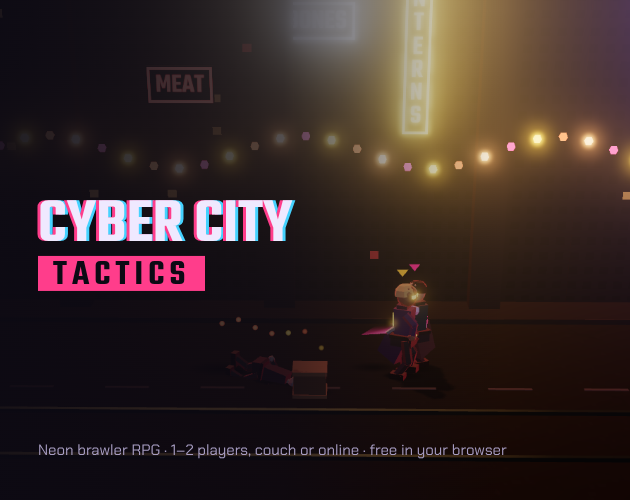
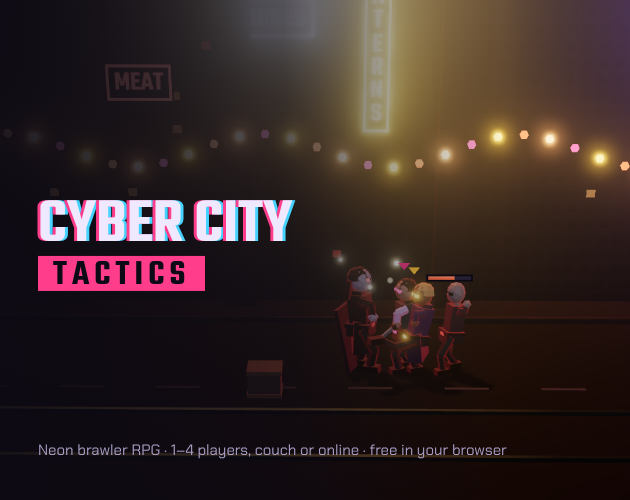
Launch on itch.io: donate links, four-player copy, fresh cover and social cards
- README: itch.io and Support badges, play/support/project-page links.
- .github/FUNDING.yml: GitHub's Sponsor button points at the itch donate page.
- Settings footer: Privacy now shows in the single-file build too (absolute
  link), plus a "Support the game" link.
- Title screen, meta tags, brand docs and the capture tool say one to four
  players; cover and social cards regenerated with "1–4 players".

Claude-Session: https://claude.ai/code/session_01Y48r5UoeMN5qUBJCKsM3hL

diff --git a/dist/cyber-city-tactics.html b/dist/cyber-city-tactics.html
@@ -3,11 +3,11 @@
 <head>
 <meta charset="utf-8">
 <meta name="viewport" content="width=device-width,initial-scale=1,maximum-scale=1,user-scalable=no,viewport-fit=cover">
-<meta http-equiv="Content-Security-Policy" content="default-src 'self'; script-src 'sha256-zYSiMwBd0hRYivYHOG/sCLJKpqCl4qIfS6S3hoSxue8='; style-src 'self' 'unsafe-inline'; img-src 'self' data: blob:; font-src 'self' data:; media-src 'self' blob:; connect-src 'self' https://cct-lobby.jca2016satx.workers.dev http://localhost:* http://127.0.0.1:*; worker-src 'self'; manifest-src 'self'; object-src 'none'; base-uri 'self'; form-action 'none'">
+<meta http-equiv="Content-Security-Policy" content="default-src 'self'; script-src 'sha256-pc1rbCnKEPQiY0EPz1YuVVLgSk9IqANskq//ZKOPe5Q='; style-src 'self' 'unsafe-inline'; img-src 'self' data: blob:; font-src 'self' data:; media-src 'self' blob:; connect-src 'self' https://cct-lobby.jca2016satx.workers.dev http://localhost:* http://127.0.0.1:*; worker-src 'self'; manifest-src 'self'; object-src 'none'; base-uri 'self'; form-action 'none'">
 <title>Cyber City Tactics</title>
-<meta name="description" content="A vector brawler RPG for one or two players, couch or online: a six-district campaign, an open-world Sprawl, Arena waves, driving, drone and flight jobs, skill trees, legendaries and secrets. Plays offline.">
+<meta name="description" content="A vector brawler RPG for one to four players, couch or online: a six-district campaign, an open-world Sprawl, Arena waves, driving, drone and flight jobs, skill trees, legendaries and secrets. Plays offline.">
 <meta property="og:title" content="Cyber City Tactics">
-<meta property="og:description" content="A neon brawler RPG for one or two players, couch or online. Six districts, an open-world Sprawl, and every job a choice. Free in your browser; plays offline.">
+<meta property="og:description" content="A neon brawler RPG for one to four players, couch or online. Six districts, an open-world Sprawl, and every job a choice. Free in your browser; plays offline.">
 <meta property="og:type" content="website">
 <meta property="og:url" content="https://cptnope.github.io/Cyber-City-Tactics/">
 <meta property="og:site_name" content="Cyber City Tactics">
@@ -23,7 +23,7 @@
 <meta property="og:video:height" content="720">
 <meta name="twitter:card" content="summary_large_image">
 <meta name="twitter:title" content="Cyber City Tactics">
-<meta name="twitter:description" content="A neon brawler RPG for one or two players, couch or online. Free in your browser; plays offline.">
+<meta name="twitter:description" content="A neon brawler RPG for one to four players, couch or online. Free in your browser; plays offline.">
 <meta name="twitter:image" content="https://cptnope.github.io/Cyber-City-Tactics/docs/store/social-1200x630.png?v=2">
 <meta name="twitter:image:alt" content="Cyber City Tactics: two runners brawling through a neon night market">
 <link rel="canonical" href="https://cptnope.github.io/Cyber-City-Tactics/">
@@ -1348,7 +1348,7 @@ const BUNDLED = true;
 /* ===== src/js/version.js ===== */
 /* Cyber City Tactics · src/js/version.js
  * Written by tools/build.mjs. Do not edit by hand. */
-const APP_VERSION = '2.0.0+1d7766d';
+const APP_VERSION = '2.0.0+c482e25';
 
 /* ===== src/js/core/canvas.js ===== */
 /* Cyber City Tactics · src/js/core/canvas.js
@@ -34490,8 +34490,8 @@ function renderOv() {
       boot = G.booted ? '' : ' boot'; // the sign powers on once per session, never on later visits
     G.booted = true;
     if (G.mode === 'title') G.pendDiff = sv && DIFF[sv.diff] ? sv.diff : 1;
-    h = `<div class="card"><p class="eyebrow">Seattle sprawl, 2079 · brawler RPG for one or two</p><h1 class="wordmark${boot}" aria-label="Cyber City Tactics"><span class="wm-city">Cyber City</span><span class="wm-bar">Tactics</span></h1>
-    <p>Two shadowrunners, a fixer with a grudge and six districts between you and Director Voss, from the gang turf to the Kagemori host itself. Level up with karma, loot gear off the street, grab and throw whatever isn't bolted down, and spend it all in the Den.</p>
+    h = `<div class="card"><p class="eyebrow">Seattle sprawl, 2079 · brawler RPG for one to four</p><h1 class="wordmark${boot}" aria-label="Cyber City Tactics"><span class="wm-city">Cyber City</span><span class="wm-bar">Tactics</span></h1>
+    <p>Up to four shadowrunners, a fixer with a grudge and six districts between you and Director Voss, from the gang turf to the Kagemori host itself. Level up with karma, loot gear off the street, grab and throw whatever isn't bolted down, and spend it all in the Den.</p>
     <div class="row"><button class="btn" data-a="pick">New run</button><button class="btn ghost" data-a="arenapick">Arena</button><button class="btn ghost" data-a="gauntpick">Gauntlet</button><button class="btn ghost" data-a="jobs">Jobs</button><button class="btn ghost" data-a="online">Online co-op</button><button class="btn ghost" data-a="worldpick">The Sprawl</button><button class="btn ghost" data-a="codex">Codex · ${esc(RANKS[rankOf(legLP())][1])}</button><button class="btn ghost" data-a="trainpick">Training</button>${sv ? `<button class="btn ghost" data-a="cont">Continue · ${(DIFF[sv.diff] || DIFF[1]).name}${sv.ng ? ' NG+' + sv.ng : ''}, ${sv.phase === 'den' ? 'the Den after district ' + (sv.stage + 1) : 'district ' + (sv.stage + 1)}</button>` : ''}<button class="btn ghost" data-a="settings">Settings</button>${PWA.deferred && !PWA.installed ? '<button class="btn ghost" data-a="install">Install app</button>' : ''}</div>${helpHtml()}</div>`;
   }
   if (m === 'pick') {
@@ -36187,7 +36187,7 @@ function pwaSettingsRows(row) {
     ) +
     syncSettingsRows(row) +
     imp +
-    `<p class="ds" style="margin-top:8px">Version ${esc(typeof APP_VERSION !== 'undefined' ? APP_VERSION : 'dev')}${PWA.waiting ? ' · update ready' : ''}${typeof BUNDLED === 'undefined' ? ' · <a href="privacy.html" target="_blank" rel="noopener">Privacy</a>' : ''}</p>`
+    `<p class="ds" style="margin-top:8px">Version ${esc(typeof APP_VERSION !== 'undefined' ? APP_VERSION : 'dev')}${PWA.waiting ? ' · update ready' : ''} · <a href="${typeof BUNDLED === 'undefined' ? 'privacy.html' : 'https://cptnope.github.io/Cyber-City-Tactics/privacy.html'}" target="_blank" rel="noopener">Privacy</a> · <a href="https://cptnope.itch.io/cyber-city-tactics/donate" target="_blank" rel="noopener">Support the game</a></p>`
   );
 }
 

diff --git a/index.html b/index.html
@@ -5,9 +5,9 @@
 <meta name="viewport" content="width=device-width,initial-scale=1,maximum-scale=1,user-scalable=no,viewport-fit=cover">
 <meta http-equiv="Content-Security-Policy" content="default-src 'self'; script-src 'self'; style-src 'self' 'unsafe-inline'; img-src 'self' data: blob:; font-src 'self' data:; media-src 'self' blob:; connect-src 'self' https://cct-lobby.jca2016satx.workers.dev http://localhost:* http://127.0.0.1:*; worker-src 'self'; manifest-src 'self'; object-src 'none'; base-uri 'self'; form-action 'none'">
 <title>Cyber City Tactics</title>
-<meta name="description" content="A vector brawler RPG for one or two players, couch or online: a six-district campaign, an open-world Sprawl, Arena waves, driving, drone and flight jobs, skill trees, legendaries and secrets. Plays offline.">
+<meta name="description" content="A vector brawler RPG for one to four players, couch or online: a six-district campaign, an open-world Sprawl, Arena waves, driving, drone and flight jobs, skill trees, legendaries and secrets. Plays offline.">
 <meta property="og:title" content="Cyber City Tactics">
-<meta property="og:description" content="A neon brawler RPG for one or two players, couch or online. Six districts, an open-world Sprawl, and every job a choice. Free in your browser; plays offline.">
+<meta property="og:description" content="A neon brawler RPG for one to four players, couch or online. Six districts, an open-world Sprawl, and every job a choice. Free in your browser; plays offline.">
 <meta property="og:type" content="website">
 <meta property="og:url" content="https://cptnope.github.io/Cyber-City-Tactics/">
 <meta property="og:site_name" content="Cyber City Tactics">
@@ -23,7 +23,7 @@
 <meta property="og:video:height" content="720">
 <meta name="twitter:card" content="summary_large_image">
 <meta name="twitter:title" content="Cyber City Tactics">
-<meta name="twitter:description" content="A neon brawler RPG for one or two players, couch or online. Free in your browser; plays offline.">
+<meta name="twitter:description" content="A neon brawler RPG for one to four players, couch or online. Free in your browser; plays offline.">
 <meta name="twitter:image" content="https://cptnope.github.io/Cyber-City-Tactics/docs/store/social-1200x630.png?v=2">
 <meta name="twitter:image:alt" content="Cyber City Tactics: two runners brawling through a neon night market">
 <link rel="canonical" href="https://cptnope.github.io/Cyber-City-Tactics/">

diff --git a/src/js/ui/overlay.js b/src/js/ui/overlay.js
@@ -26,8 +26,8 @@ function renderOv() {
       boot = G.booted ? '' : ' boot'; // the sign powers on once per session, never on later visits
     G.booted = true;
     if (G.mode === 'title') G.pendDiff = sv && DIFF[sv.diff] ? sv.diff : 1;
-    h = `<div class="card"><p class="eyebrow">Seattle sprawl, 2079 · brawler RPG for one or two</p><h1 class="wordmark${boot}" aria-label="Cyber City Tactics"><span class="wm-city">Cyber City</span><span class="wm-bar">Tactics</span></h1>
-    <p>Two shadowrunners, a fixer with a grudge and six districts between you and Director Voss, from the gang turf to the Kagemori host itself. Level up with karma, loot gear off the street, grab and throw whatever isn't bolted down, and spend it all in the Den.</p>
+    h = `<div class="card"><p class="eyebrow">Seattle sprawl, 2079 · brawler RPG for one to four</p><h1 class="wordmark${boot}" aria-label="Cyber City Tactics"><span class="wm-city">Cyber City</span><span class="wm-bar">Tactics</span></h1>
+    <p>Up to four shadowrunners, a fixer with a grudge and six districts between you and Director Voss, from the gang turf to the Kagemori host itself. Level up with karma, loot gear off the street, grab and throw whatever isn't bolted down, and spend it all in the Den.</p>
     <div class="row"><button class="btn" data-a="pick">New run</button><button class="btn ghost" data-a="arenapick">Arena</button><button class="btn ghost" data-a="gauntpick">Gauntlet</button><button class="btn ghost" data-a="jobs">Jobs</button><button class="btn ghost" data-a="online">Online co-op</button><button class="btn ghost" data-a="worldpick">The Sprawl</button><button class="btn ghost" data-a="codex">Codex · ${esc(RANKS[rankOf(legLP())][1])}</button><button class="btn ghost" data-a="trainpick">Training</button>${sv ? `<button class="btn ghost" data-a="cont">Continue · ${(DIFF[sv.diff] || DIFF[1]).name}${sv.ng ? ' NG+' + sv.ng : ''}, ${sv.phase === 'den' ? 'the Den after district ' + (sv.stage + 1) : 'district ' + (sv.stage + 1)}</button>` : ''}<button class="btn ghost" data-a="settings">Settings</button>${PWA.deferred && !PWA.installed ? '<button class="btn ghost" data-a="install">Install app</button>' : ''}</div>${helpHtml()}</div>`;
   }
   if (m === 'pick') {

diff --git a/docs/design/panels/Main.dc.html b/docs/design/panels/Main.dc.html
@@ -19,7 +19,7 @@ a{color:#45d2ff}a:hover{color:#efe9ff}
 <div style="width: 1280px; height: 720px; position: relative; overflow: hidden; background: #0c0a14; font-family: 'Chakra Petch', ui-sans-serif, system-ui, sans-serif; color: #efe9ff;">
   <img src="shots/fight.png" alt="Two runners fighting a ganger, a berserk orc, corp security and a drone in the Neon Market" style="position: absolute; left: 0; top: 0; width: 1280px; height: 720px; object-fit: cover;">
   <div style="position: absolute; left: 0; top: 0; bottom: 0; width: 600px; background: rgba(12, 10, 20, 0.9); border-right: 2px solid #ff3d8b; box-sizing: border-box; padding: 72px 56px; display: flex; flex-direction: column; justify-content: center; gap: 22px;">
-    <p style="margin: 0; font-size: 12px; letter-spacing: 0.18em; text-transform: uppercase; color: #a79dc2;">Seattle sprawl, 2079 · brawler RPG for one or two</p>
+    <p style="margin: 0; font-size: 12px; letter-spacing: 0.18em; text-transform: uppercase; color: #a79dc2;">Seattle sprawl, 2079 · brawler RPG for one to four</p>
     <div style="display: flex; flex-direction: column; align-items: flex-start; gap: 6px; font-family: 'Teko', Impact, 'Arial Narrow', sans-serif; font-weight: 600; text-transform: uppercase;">
       <span style="font-size: 112px; line-height: 0.82; letter-spacing: 0.01em; text-shadow: -3px 0 #ff3d8b, 3px 0 #45d2ff;">Cyber City</span>
       <span style="font-size: 62px; line-height: 1; letter-spacing: 0.14em; background: #ff3d8b; color: #0c0a14; padding: 6px 16px 0;">Tactics</span>

diff --git a/src/js/pwa.js b/src/js/pwa.js
@@ -95,7 +95,7 @@ function pwaSettingsRows(row) {
     ) +
     syncSettingsRows(row) +
     imp +
-    `<p class="ds" style="margin-top:8px">Version ${esc(typeof APP_VERSION !== 'undefined' ? APP_VERSION : 'dev')}${PWA.waiting ? ' · update ready' : ''}${typeof BUNDLED === 'undefined' ? ' · <a href="privacy.html" target="_blank" rel="noopener">Privacy</a>' : ''}</p>`
+    `<p class="ds" style="margin-top:8px">Version ${esc(typeof APP_VERSION !== 'undefined' ? APP_VERSION : 'dev')}${PWA.waiting ? ' · update ready' : ''} · <a href="${typeof BUNDLED === 'undefined' ? 'privacy.html' : 'https://cptnope.github.io/Cyber-City-Tactics/privacy.html'}" target="_blank" rel="noopener">Privacy</a> · <a href="https://cptnope.itch.io/cyber-city-tactics/donate" target="_blank" rel="noopener">Support the game</a></p>`
   );
 }
 

diff --git a/docs/design/system/components/Cover/preview.html b/docs/design/system/components/Cover/preview.html
@@ -53,7 +53,7 @@
 </div>
 <div class="words">
 <h1 class="name">Cyber City<br>Tactics</h1>
-<p class="tag">A neon brawler RPG for one or two. Choose who you hurt.</p>
+<p class="tag">A neon brawler RPG for one to four. Choose who you hurt.</p>
 </div>
 </div>
 </body>

diff --git a/src/js/version.js b/src/js/version.js
@@ -1,4 +1,4 @@
 /* Cyber City Tactics · src/js/version.js
  * Written by tools/build.mjs. Do not edit by hand. */
 'use strict';
-const APP_VERSION = '2.0.0+1d7766d';
+const APP_VERSION = '2.0.0+c482e25';

diff --git a/sw.js b/sw.js
@@ -10,7 +10,7 @@
  */
 
 /* BUILD:MANIFEST */
-const VERSION = '1d7766dbf6c3';
+const VERSION = 'c482e25123b0';
 const PRECACHE = [
   './',
   'index.html',

diff --git a/README.md b/README.md
@@ -7,6 +7,8 @@
 <p align="center">
   <a href="https://cptnope.github.io/Cyber-City-Tactics/"><img alt="Play now in your browser" src="https://img.shields.io/badge/%E2%96%B6%20PLAY%20NOW-in%20your%20browser-ff3d8b?style=for-the-badge&labelColor=0c0a14"></a>
   <a href="https://cptnope.github.io/Cyber-City-Tactics/docs/store/trailer.mp4"><img alt="Watch the trailer" src="https://img.shields.io/badge/%E2%96%B6%20TRAILER-22%20seconds-45d2ff?style=for-the-badge&labelColor=0c0a14"></a>
+  <a href="https://cptnope.itch.io/cyber-city-tactics"><img alt="Play on itch.io" src="https://img.shields.io/badge/itch.io-play%20free-fa5c5c?style=for-the-badge&labelColor=0c0a14&logo=itchdotio&logoColor=white"></a>
+  <a href="https://cptnope.itch.io/cyber-city-tactics/donate"><img alt="Support the game" src="https://img.shields.io/badge/%E2%99%A5%20SUPPORT-donate%20on%20itch-ffc63d?style=for-the-badge&labelColor=0c0a14"></a>
 </p>
 <p align="center">
   <a href="https://github.com/CptNope/Cyber-City-Tactics/actions/workflows/ci.yml"><img alt="CI" src="https://github.com/CptNope/Cyber-City-Tactics/actions/workflows/ci.yml/badge.svg"></a>
@@ -19,11 +21,13 @@
 
 Seattle, 2079. Magic came back, dragons came with it, and the corps bought the sky.
 
-**Cyber City Tactics** is a vector-drawn, River City Ransom–style brawler RPG set in a cyberpunk sprawl where magic is real. Street samurai, combat mages, gunslingers, deckers, shamans and riggers fight gangs, corps, spirits and ICE across six districts, an open-world street and an endless Arena. You and a friend punch, kick, shoot, cast, grab and throw your way from the gang turf under the dead monorail to the Kagemori host itself.
+**Cyber City Tactics** is a vector-drawn, River City Ransom–style brawler RPG set in a cyberpunk sprawl where magic is real. Street samurai, combat mages, gunslingers, deckers, shamans and riggers fight gangs, corps, spirits and ICE across six districts, an open-world street and an endless Arena. You and up to three friends punch, kick, shoot, cast, grab and throw your way from the gang turf under the dead monorail to the Kagemori host itself.
 
 It's plain JavaScript with no framework and no runtime dependencies, split into small files by system. It runs in any modern browser on phones, tablets, laptops and TVs, and it installs as an app (PWA) that plays fully offline.
 
-- **Play it:** https://cptnope.github.io/Cyber-City-Tactics/
+- **Play it:** https://cptnope.github.io/Cyber-City-Tactics/ (installable, plays offline) or on [itch.io](https://cptnope.itch.io/cyber-city-tactics)
+- **Support it:** the game is free and always will be. If you enjoy it, [a donation on itch.io](https://cptnope.itch.io/cyber-city-tactics/donate) of any size keeps it growing.
+- **Project page:** [jeremyanderson.tech](https://jeremyanderson.tech/project/cyber-city-tactics/)
 - **What's next:** [ROADMAP.md](ROADMAP.md)
 - **Store kit** (trailer, screenshots, cover art, itch.io copy): [`docs/store/`](docs/store/README.md)
 - **Brand and design:** the [Brand Book](https://claude.ai/artifact/SJeAWr27Fua7MpdYEhZqS7) (story, voice, logo, color, type) and the [Design System](https://claude.ai/artifact/7MgLArML6pr2ZNGthKNg7Q) (tokens, components, icons), plus the [Design Panels](https://claude.ai/artifact/QRGJ2rzUJLrJbqcxjpcKoc) (key art, store and social art, annotated screens). Copies of all three live in [`docs/design/`](docs/design/); the live values are in `src/css/game.css`.

diff --git a/docs/design/system/README.md b/docs/design/system/README.md
@@ -1,4 +1,4 @@
-Cyber City Tactics is a neon brawler RPG for one or two players, set in a rain-soaked Seattle in 2079. Everything here is taken from the game's own code (`CptNope/Cyber-City-Tactics`): the colors and sizes from `src/css/game.css`, the canvas colors from `src/js/render/`. The full brand story, voice and applications live in the **Cyber City Tactics Brand Book**; this system is the part you build with.
+Cyber City Tactics is a neon brawler RPG for one to four players, set in a rain-soaked Seattle in 2079. Everything here is taken from the game's own code (`CptNope/Cyber-City-Tactics`): the colors and sizes from `src/css/game.css`, the canvas colors from `src/js/render/`. The full brand story, voice and applications live in the **Cyber City Tactics Brand Book**; this system is the part you build with.
 
 ## Content fundamentals
 

diff --git a/docs/wiki/Home.md b/docs/wiki/Home.md
@@ -1,6 +1,6 @@
 # Cyber City Tactics wiki
 
-A neon brawler RPG for one or two players, couch or online, that runs in any browser and installs as an offline app. This wiki explains how the game plays, how the code is put together, and how to change it safely. Every data table here is generated from the game's own code, so it matches the build it was made from.
+A neon brawler RPG for one to four players, couch or online, that runs in any browser and installs as an offline app. This wiki explains how the game plays, how the code is put together, and how to change it safely. Every data table here is generated from the game's own code, so it matches the build it was made from.
 
 **Play:** https://cptnope.github.io/Cyber-City-Tactics/ · **Code:** https://github.com/CptNope/Cyber-City-Tactics
 

diff --git a/docs/design/BRAND.md b/docs/design/BRAND.md
@@ -172,7 +172,7 @@ Hits should feel heavy, menus should feel instant, and nothing should wait on an
 **Store and install listing:**
 
 - *Name:* Cyber City Tactics
-- *Short description (80 characters):* A neon brawler RPG for one or two. Punch, shoot, cast and hack. Plays offline.
+- *Short description (80 characters):* A neon brawler RPG for one to four. Punch, shoot, cast and hack. Plays offline.
 - *Long description opens with:* "Seattle, 2079. Pick a runner, take a job, and choose who you hurt." Then three short paragraphs: the campaign and co-op, the Sprawl and its choices, the secrets and the Codex.
 - *Category:* Games, Action RPG.
 
